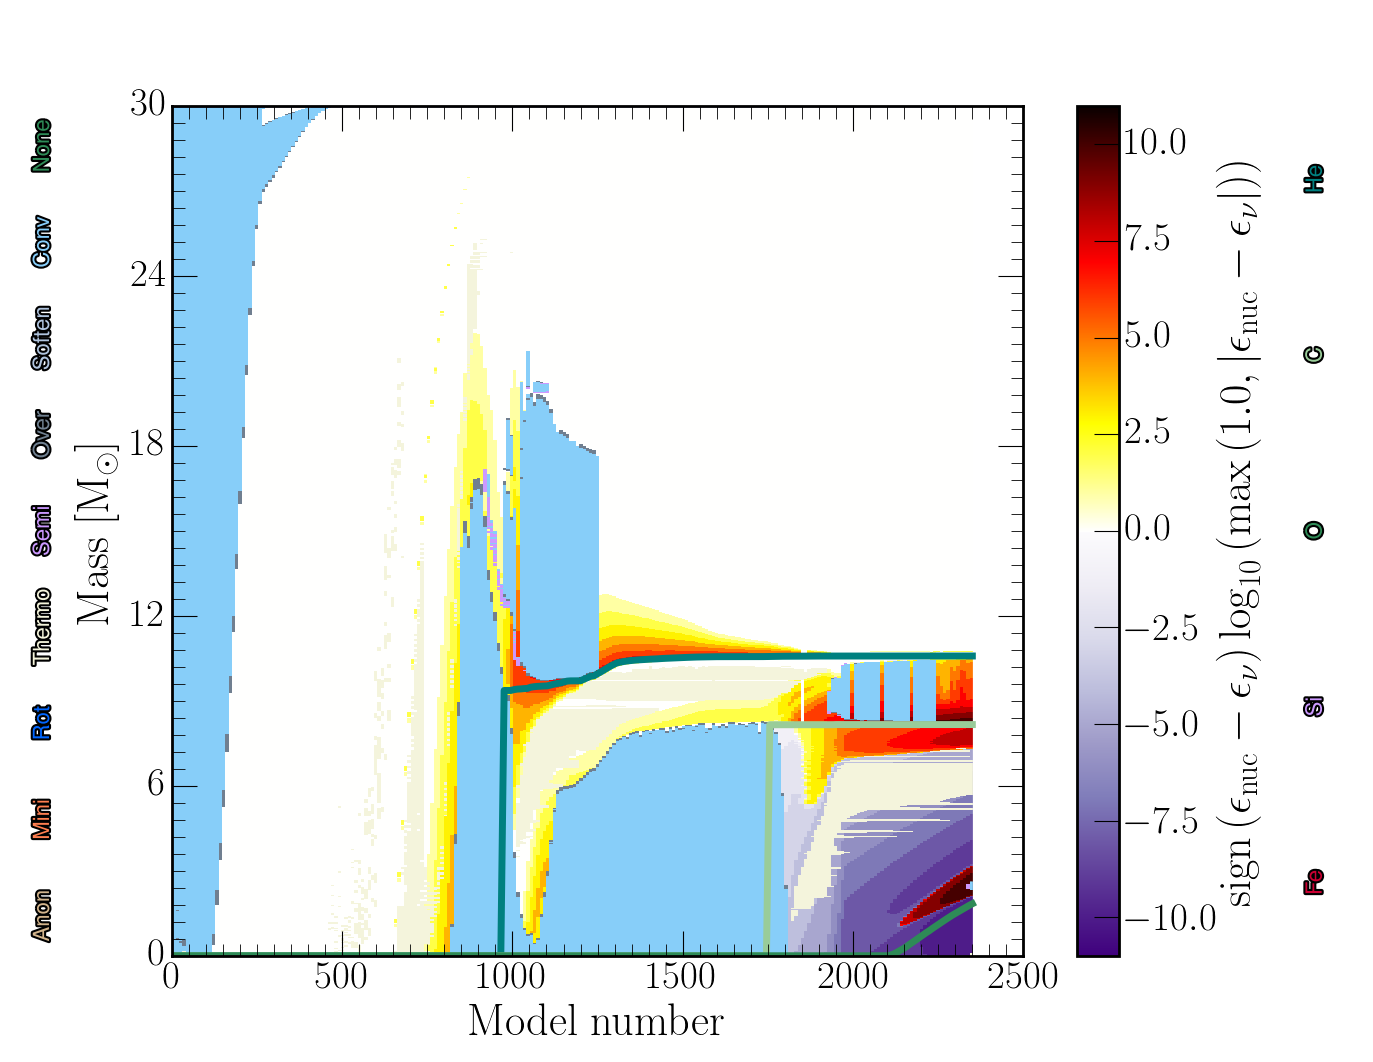
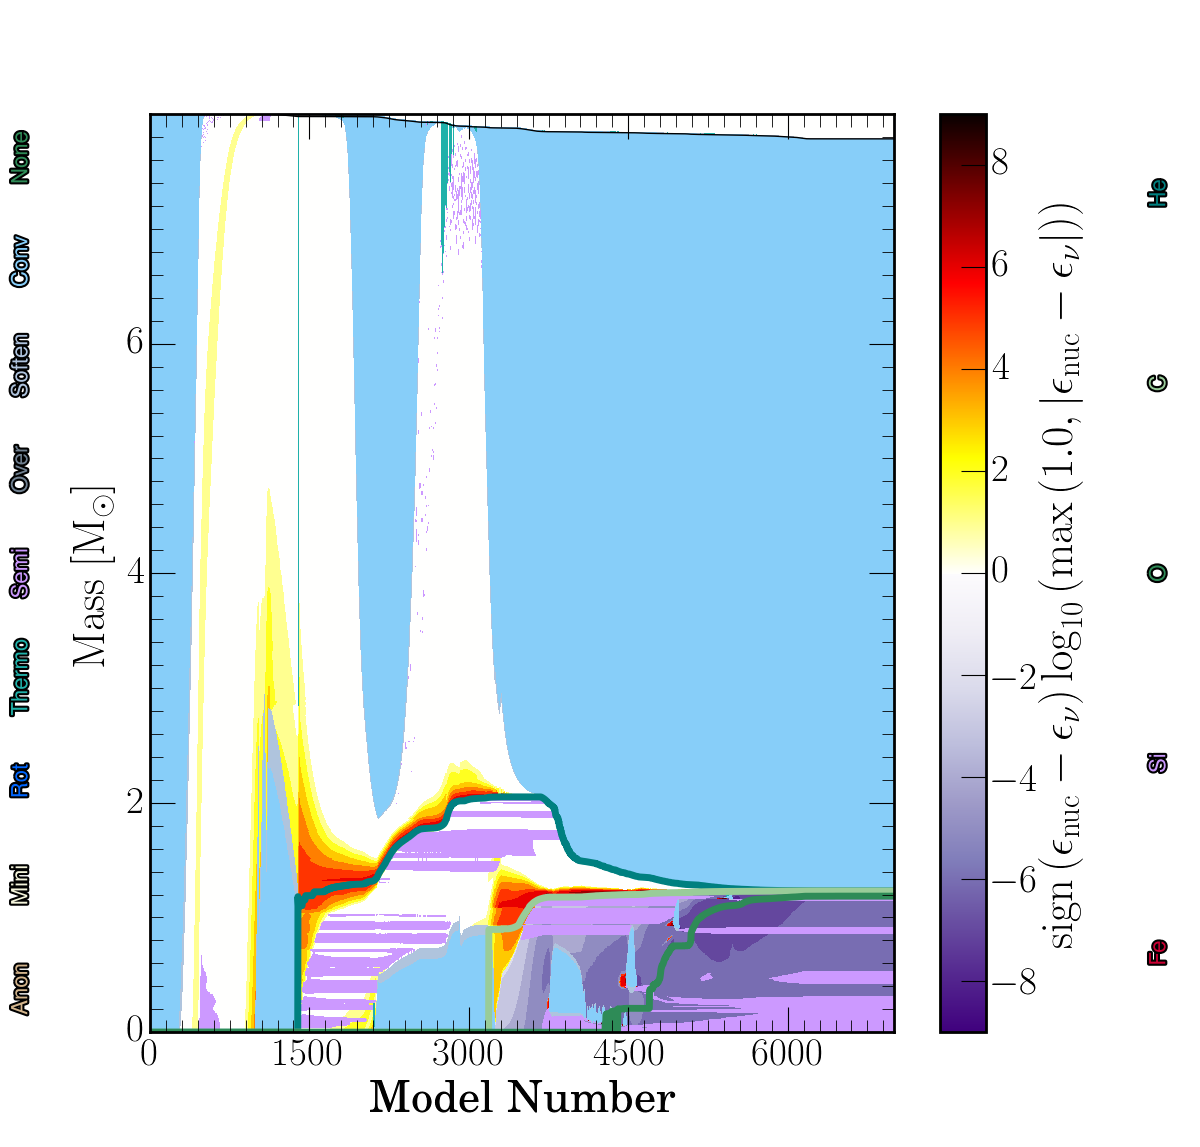
Add profile based kip plots

diff --git a/mesaPlot/__init__.py b/mesaPlot/__init__.py
@@ -309,6 +309,8 @@ class MESA(object):
 			if len(rng)==2 and rng[0]>0:
 				if x["model"] >=rng[0] and x["model"] <= rng[1] and np.remainder(x["model"]-rng[0],step)==0:
 					self.loadProfile(f=f+"/profile"+str(int(x["profile"]))+".data")
+				elif x["model"]>rng[1]:
+					raise StopIteration
 				yield
 			elif len(rng)>2 and rng[0]>0:
 				if x["model"] in rng:
@@ -2210,7 +2212,9 @@ class plot(object):
 	def plotKip(self,m,show=True,reloadHistory=False,xaxis='num',ageZero=0.0,ax=None,xrng=[-1,-1],mix=None,
 				cmin=None,cmax=None,burnMap=[mpl.cm.Purples_r,mpl.cm.hot_r],fig=None,yrng=None,
 				show_mass_loc=False,show_mix_labels=True,mix_alpha=1.0,step=1,y2=None,title=None,y2rng=None):
-					
+				
+		print("Warning plotKip is now depreciated switch to plotKip3")	
+				
 		if fig==None:
 			fig=plt.figure(figsize=(12,12))
 		
@@ -2374,6 +2378,8 @@ class plot(object):
 				show_mass_loc=False,show_mix_labels=True,mix_alpha=1.0,step=1,max_mass=99999.0,age_collapse=False,age_log=True,age_reverse=False,
 				mod_out=None,megayears=False,xlabel=None,title=None,colorbar=True,burn=True,end_time=None,ylabel=None,age_zero=None,
 				num_x=None,num_y=None,y2=None):
+
+		print("Warning plotKip2 is now depreciated switch to plotKip3")	
 					
 		if fig==None:
 			fig=plt.figure(figsize=(12,12))
@@ -2592,16 +2598,16 @@ class plot(object):
 			
 			
 	#Will replace plotKip and plotKip2 when finished
-	def plotKip3(self,m,plot_type='history',xaxis='model_number',yaxis='mass',
+	def plotKip3(self,m,plot_type='history',xaxis='model_number',yaxis='mass',zaxis='logT',
 				xmin=None,xmax=None,mod_min=None,mod_max=None,
 				yrng=[-1,-1],xstep=1,
 				xlabel=None,ylabel=None,title=None,
 				show=True,reloadHistory=False,ax=None,fig=None,
 				show_mix=True,mix=None,show_burn=True,show_outer_mass=True,
-				cmin=None,cmax=None,colormap=None,burnMap=[mpl.cm.Purples_r,mpl.cm.hot_r],colorbar=True,cbar_label='',
+				cmin=None,cmax=None,colormap=None,burnMap=[mpl.cm.Purples_r,mpl.cm.hot_r],colorbar=True,cbar_label=None,
 				show_mass_loc=False,show_mix_labels=True,mix_alpha=1.0,
 				age_lookback=False,age_log=True,age_reverse=False,megayears=False,end_time=None,age_zero=None,
-				y2=None,mod_index=None):
+				y2=None,mod_index=None,zlog=False):
 					
 		if fig==None:
 			fig=plt.figure(figsize=(12,12))
@@ -2615,21 +2621,23 @@ class plot(object):
 
 		if ax==None:
 			ax=fig.add_subplot(111)
+		if y2 is not None:
+			ax2=ax.twinx()
 		
 		if plot_type=='history':			
 			try:
 				model_num=m.hist.data['model_number']
-			except AttributeError:
+			except (KeyError,AttributeError):
 				raise ValueError("Must call loadHistory first")
 		elif plot_type=='profile':
 			try:
 				model_num=m.prof.head['model_number']
-			except AttributeError:
+			except (KeyError,AttributeError):
 				raise ValueError("Must load a profile file first")
 				
 			try:
 				y=m.prof.data[yaxis]
-			except AttributeError:
+			except (KeyError,AttributeError):
 				raise ValueError("No value "+yaxis+" found")
 							
 		else:
@@ -2672,20 +2680,31 @@ class plot(object):
 			#May need to interpolate data:
 			lin_x=np.linspace(data_x[0],data_x[-1],np.count_nonzero(data_x))
 			
-			data_z=self._rebinKipData(data_z,data_x,lin_x)
+			data_z=self._rebinKipDataX(data_z,data_x,lin_x)
 			if show_mix:
-				mix_data=self._rebinKipData(mix_data,data_x,lin_x,nan=True,nan_value=1)
+				mix_data=self._rebinKipDataX(mix_data,data_x,lin_x,nan=True,nan_value=1)
 			
 		else:
-			pass
-			#ip=m.iterateProfiles(rng=[minMod,maxMod])
-			#for i in ip: 
-				#data_x.append(m.prof.head[xaxis])
-				#data_y.append(m.prof.data[yaxis])
-				#data_z.append(m.prof.data[zaxis])
-				#if show_mix:
-					#mix.append(m.prof.mixing_type)
-
+			show_mix=False
+			show_burn=False
+			if mod_min is None:
+				mod_min=-1
+				mod_max=-1			
+			ip=m.iterateProfiles(rng=[mod_min,mod_max])
+			count=0
+			zones=[]
+			for i in ip: 
+				data_x.append(m.prof.head[xaxis])
+				data_y.append(m.prof.data[yaxis])
+				data_z.append(m.prof.data[zaxis])
+				zones.append(m.prof.head['num_zones'])
+				count=count+1
+				
+			modInd=np.zeros(count,dtype='bool')
+			modInd[:]=True
+			data_x=np.array(data_x)
+			num_zones=np.max(zones)
+			data_z,lin_x,data_y=self._rebinKipDataXY(data_z,data_x,data_y,count,num_zones)
 
 
 		xmin=data_x[0]
@@ -2713,7 +2732,13 @@ class plot(object):
 			newCm=self.mergeCmaps(burnMap,[[0.0,0.5],[0.5,1.0]])
 		else:
 			vmin=0
-			newCm=burnMap[-1]					
+			newCm=burnMap[-1]		
+			
+		if zlog:
+			data_z=np.log10(data_z)
+			vmin=np.log10(vmin)
+			vmax=np.log10(vmax)
+						
 					
 		im1=ax.imshow(data_z.T,cmap=newCm,extent=extent,interpolation='nearest',origin='lower',aspect='auto',vmin=vmin,vmax=vmax)		
 				
@@ -2722,10 +2747,11 @@ class plot(object):
 			ax.imshow(mix_data.T,cmap=mixCmap,norm=mixNorm,extent=extent,interpolation='nearest',origin='lower',aspect='auto',alpha=mix_alpha)
 				
 
-		if ylabel is not None:
-			ax.set_ylabel(ylabel)
-		else:
+
+		if plot_type=='history':
 			ax.set_ylabel(r"$\rm{Mass}\; [M_{\odot}]$")
+		else:
+			ax.set_ylabel(self.safeLabel(ylabel,yaxis))
 		
 		if colorbar:
 			cb=fig.colorbar(im1)
@@ -2734,18 +2760,20 @@ class plot(object):
 			if show_burn:
 				cb.set_label(r'$\rm{sign}\left(\epsilon_{\rm{nuc}}-\epsilon_{\nu}\right)\log_{10}\left(\rm{max}\left(1.0,|\epsilon_{\rm{nuc}}-\epsilon_{\nu}|\right)\right)$')
 			else:
-				cb.set_label(cbar_label)
-			fig.set_size_inches(12,9.45)
+				cb.set_label(self.safeLabel(cbar_label,zaxis))
 				
-		##Add line at outer mass location
-		if show_outer_mass:
+		#Add line at outer mass location
+		if show_outer_mass and plot_type=='history':
 			f = interp1d(data_x[modInd], m.hist.data['star_mass'][modInd])
 			ax.plot(lin_x,f(lin_x),c='k')
 		
-		if y2 is not None:
-			ax2=ax.twinx()
-			f = interp1d(data_x[modInd], m.hist.data[y2][modInd])
-			ax2.plot(lin_x,f(lin_x),c='k')
+		if y2 is not None and plot_type=='history':
+			# Update axes 2 locations after ax1 is moved by the colorbar
+			ax2.set_position(ax.get_position())
+			f = interp1d(age, m.hist.data[y2][modInd])
+			ax2.plot(lin_age,f(lin_age),c='k')
+			if y2rng is not None:
+				ax2.set_ylim(y2rng)
 		
 		if xlabel is None:
 			if xaxis=='model_number':
@@ -2907,16 +2935,29 @@ class plot(object):
 		return modInd	
 		
 		
-	def _rebinKipData(self,data,x,lin_x,nan=False,nan_value=1):
+	def _rebinKipDataX(self,data,x,lin_x,nan=False,nan_value=1):
 		sorter=np.argsort(x)
-		print(x)
-		print(lin_x)
-		print(sorter)
 		ind=np.searchsorted(x,lin_x,sorter=sorter)
 		data=data[sorter[ind],:]
 		if nan:
 			data[data<nan_value]=np.nan
 		return data
+		
+	def _rebinKipDataXY(self,data_z,data_x,data_y,num_x_zones,num_y_zones):
+		ymin=np.nanmin([np.nanmin(y) for y in data_y])
+		ymax=np.nanmax([np.nanmax(y) for y in data_y])
+		data_y2=np.linspace(ymin,ymax,num_y_zones)
+		data_z2=np.zeros((np.size(data_x),int(num_y_zones)))
+		for i in range(len(data_x)):
+			f=interp1d(data_y[i], data_z[i],bounds_error=False,fill_value=np.nan)
+			data_z2[i,:]=f(data_y2)
+
+		lin_x=np.linspace(np.nanmin(data_x),np.nanmax(data_x),num_x_zones)
+		sorter=np.argsort(data_x)
+		
+		ind=np.searchsorted(data_x,lin_x,sorter=sorter)
+		data_z=data_z2[sorter[ind],:]
+		return data_z,lin_x,data_y2
 		
 	def plotTRho(self,m,model=None,show=True,ax=None,xmin=-4.0,xmax=10.0,fig=None,yrng=[3.0,10.0],
 				show_burn=False,show_mix=False,

diff --git a/README.md b/README.md
@@ -121,6 +121,7 @@ p.plotHR(m)
 
 [More on Kippenhan plots](docs/kipp.md)
 
+plotKip and plotKip2 are now depreciated, switch to plotKip3
 ````python
 import mesaPlot as mp
 m=mp.MESA()
@@ -129,9 +130,7 @@ m.loadHistory()
 p.plotKip(m,show_mass_loc=True)
 ````
 
-![Kippenhan plot 1M_pre_ms_to_wd](/examples/kip.png?raw=true "Kippenhan plot")
-
-
+Depreciated
 ````python
 import mesaPlot as mp
 m=mp.MESA()
@@ -139,6 +138,39 @@ p=mp.plot()
 m.loadHistory()
 p.plotKip2(m)
 ````
+
+New way of doing plotKip
+````python
+import mesaPlot as mp
+m=mp.MESA()
+p=mp.plot()
+m.loadHistory()
+p.plotKip3(m,show_mass_loc=True)
+````
+![Kippenhan plotKip3 SAGB star](/examples/kip.png?raw=true "Kippenhan plot")
+
+New way of doing plotKip2
+````python
+import mesaPlot as mp
+m=mp.MESA()
+p=mp.plot()
+m.loadHistory()
+p.plotKip3(m,xaxis='star_age',age_lookback=True,age_log=True)
+````
+![Kippenhan plotKip3 SAGB star 2](/examples/kip_age.png?raw=true "Kippenhan plot 2")
+
+Profile based kippenhan's
+````python
+import mesaPlot as mp
+
+m=mp.MESA()
+m.loadHistory()
+m.loadProfile(num=1)
+p=mp.plot()
+p.plotKip3(m,plot_type='profile',xaxis='model_number',yaxis='mass',zaxis='logT',mod_min=1,mod_max=3000)
+````
+![Kippenhan plotKip3 SAGB star 3](/examples/kip_prof.png?raw=true "Kippenhan plot 3")
+
 
 ### Abundances
 
